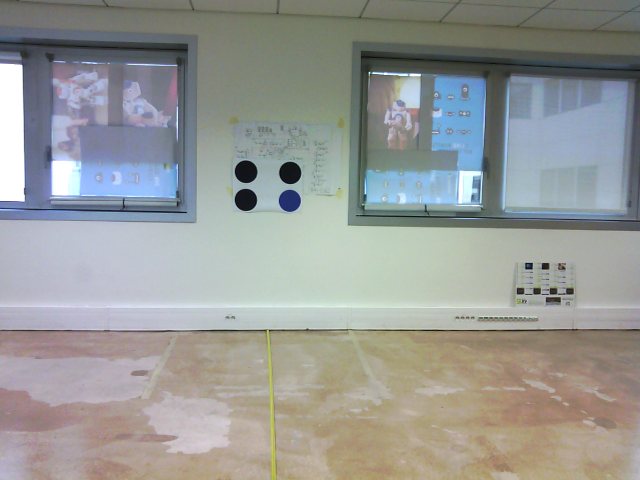
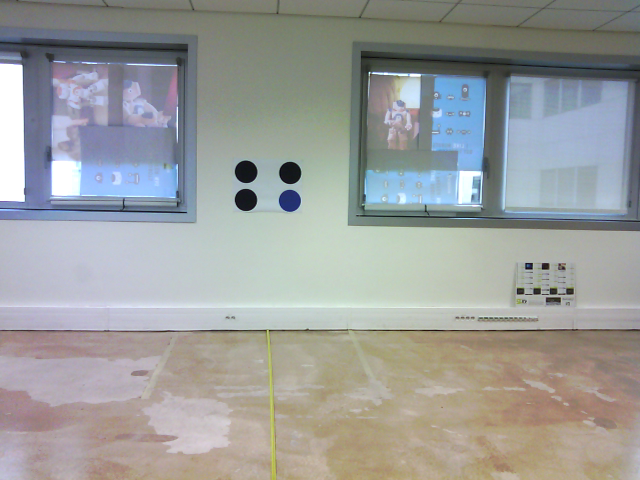
add 5m detection and assert on autotest

diff --git a/protolab/image.py b/protolab/image.py
@@ -91,7 +91,7 @@ def drawArrow( image, p, q, color, nArrowMagnitude = 9, nThickness=1, nLineType=
     #Draw the second segment
     cv2.line(image, p, q, color, nThickness, nLineType, nShift);
 
-def findCircles( img_color, cColor = 'r', bDebug = False ):
+def findCircles( img_color, cColor = 'r', bDebug = False, bFindSmall = False ):
     """
     find the circle in an image, 
     return the 4 positions [ [x1,y1], [x2,y2], [x3,y3], [x4,y4], ] in range[0..1]
@@ -106,7 +106,7 @@ def findCircles( img_color, cColor = 'r', bDebug = False ):
         bRender = False;
     
     img = cv2.cvtColor( img_color, cv2.cv.CV_BGR2GRAY );
-
+    
     if( cColor == 'g' ):
         img = cv2.GaussianBlur( img, (3, 3), 5 );
     else:
@@ -118,11 +118,13 @@ def findCircles( img_color, cColor = 'r', bDebug = False ):
             img = cv2.GaussianBlur( img, (7, 7), 5 ); # TODO: tune me!
         elif( img.shape[1] <= 1280 ):
             img = cv2.GaussianBlur( img, (15, 15), 10 );
-    
+            
     #~ img = cv2.pyrDown( img ); # PyrDown only divide by 2
     
     #~ cv2.imshow( "mat", img );
     #~ cv2.waitKey(0)
+
+    minDist = img.shape[0]/16
     
     if( img.shape[1] == 320 ):
         p1 = 10; p2 = 20; r=5; R=10;
@@ -130,13 +132,23 @@ def findCircles( img_color, cColor = 'r', bDebug = False ):
         p1 = 180; p2 = 35; r=8; R=60;
 
     if( cColor == 'b' ):
-        p1 = 80; p2 = 35; r=16; R=img.shape[1]/2;
+        p1 = 85; p2 = 35; r=16; R=img.shape[1]/2; # works with 85-125 on auto test
+        
+    if( bFindSmall ):
+        r = 10;
+        R = 3*r;
+        minDist = 4;
+        
+        
     
 
     # Apply the Hough Transform to find the circles
-    circles_detected = cv2.HoughCircles( img, cv2.cv.CV_HOUGH_GRADIENT,dp=1, minDist = img.shape[0]/16, param1=p1,param2=p2,minRadius=r,maxRadius=R );
+    circles_detected = cv2.HoughCircles( img, cv2.cv.CV_HOUGH_GRADIENT,dp=1, minDist = minDist, param1=p1,param2=p2,minRadius=r,maxRadius=R );
     print( "circles_detected: %s" % circles_detected );  # a list of x,y,radius    
     if( circles_detected == None ):
+        if( not bFindSmall ):
+            print( "INF: findCircles: find no circles, trying to find some small one..." );
+            return findCircles( img_color, cColor = cColor, bDebug = bDebug, bFindSmall = True );
         return [];
     circles = np.int16(np.around(circles_detected))[0] # round the list and remove one level
     if( bRender ):
@@ -322,22 +334,24 @@ def autotest_findCirclesPos():
     files = ["wall_circles_qqvga_0m59", "wall_circles_qvga_0m59", "wall_circles_vga_0m59", "wall_circles_4vga_0m59", "wall_circles_vga_2m00", "wall_circles_vga_rot_2m00", "wall_circles_vga_trans_2m00",  "wall_circles_vga_3m00", "wall_circles_vga_5m00" ];
     #~ files = ["wall_circles_4vga_0m59"]
     #~ files = ["wall_circles_vga_rot_2m00"]
-    files = ["wall_circles_vga_5m00"]
+    #~ files = ["wall_circles_vga_5m00","wall_circles_vga_5m00_flashy"]
     theoricalResults = [0,0,0];
+    nNbrSuccess = 0;
     for file in files:
         strFilename = "../data/circles_board/wall_circles/%s.png" % file;
         print( "INF: testing on strFilename: %s" % strFilename );
         im = cv2.imread( strFilename );
-        pos = findCirclesPos(im, WallCircleBoard().size(), WallCircleBoard().cColor, bDebug = True  );        
+        pos = findCirclesPos(im, WallCircleBoard().size(), WallCircleBoard().cColor, bDebug = 0 );        
         print( "INF: autotest_findCirclesPos: pos: %s" % pos );
         if( pos != None ):
             rTheoricDistance = int(file[-4])*1000+int(file[-2:])*10;        
             rCurrentDist = pos[2];
             print( "rTheoricDistance: %f, mesured: %s" % ( rTheoricDistance, rCurrentDist ) )
             print( "ratioDistance: %f" % (rTheoricDistance/rCurrentDist) );
-        else:
-            assert(0);
-    
+            nNbrSuccess += 1;
+    print( "nNbrSuccess: %d" % nNbrSuccess );
+    assert( nNbrSuccess == len(files) );
+    print( "GOOD: Test passed !" );
 
 if __name__ == "__main__":
     autotest_findCirclesPos();
